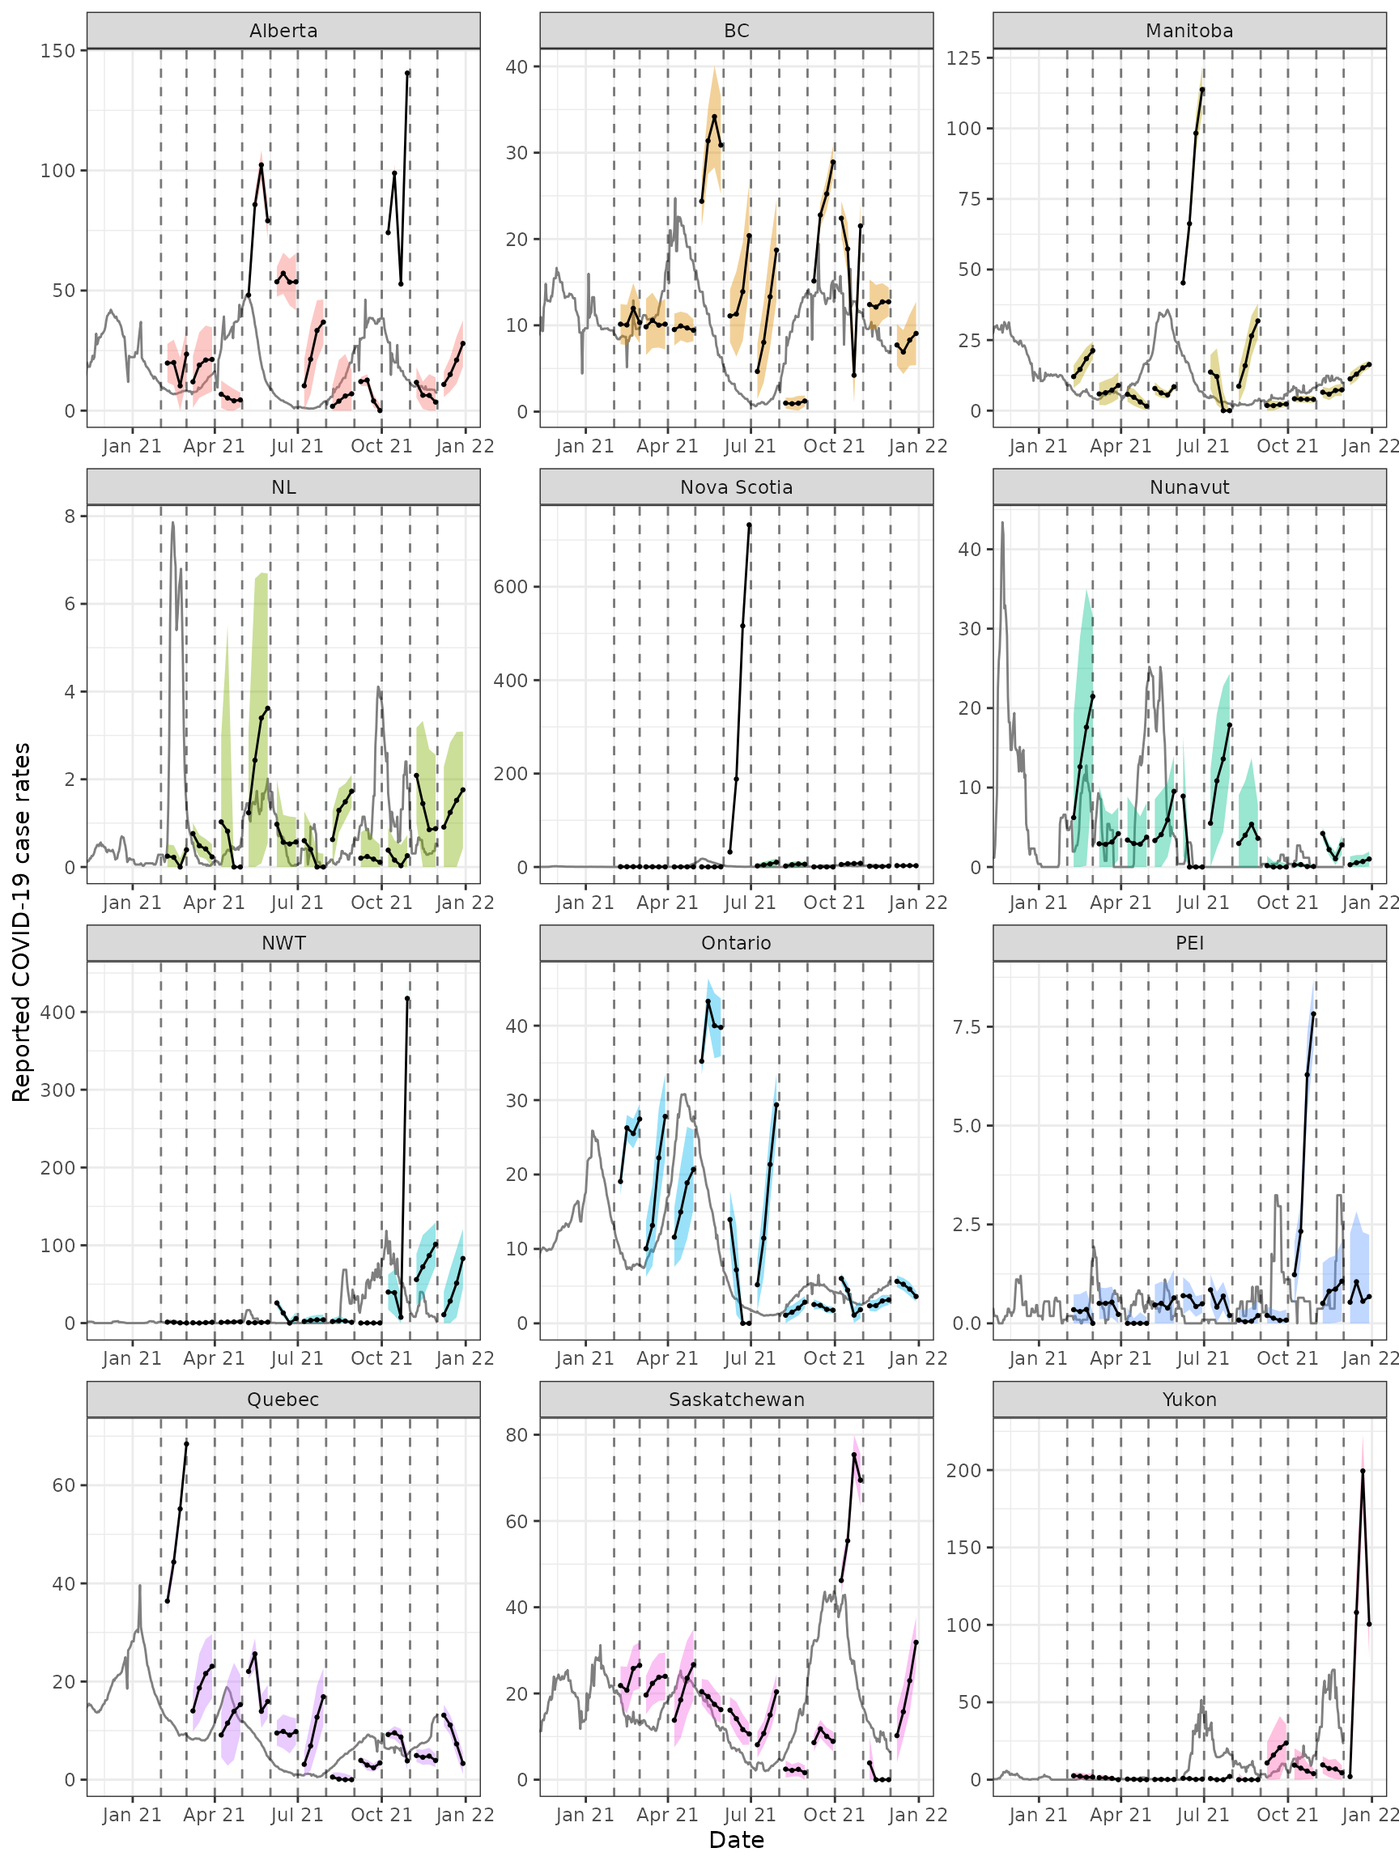
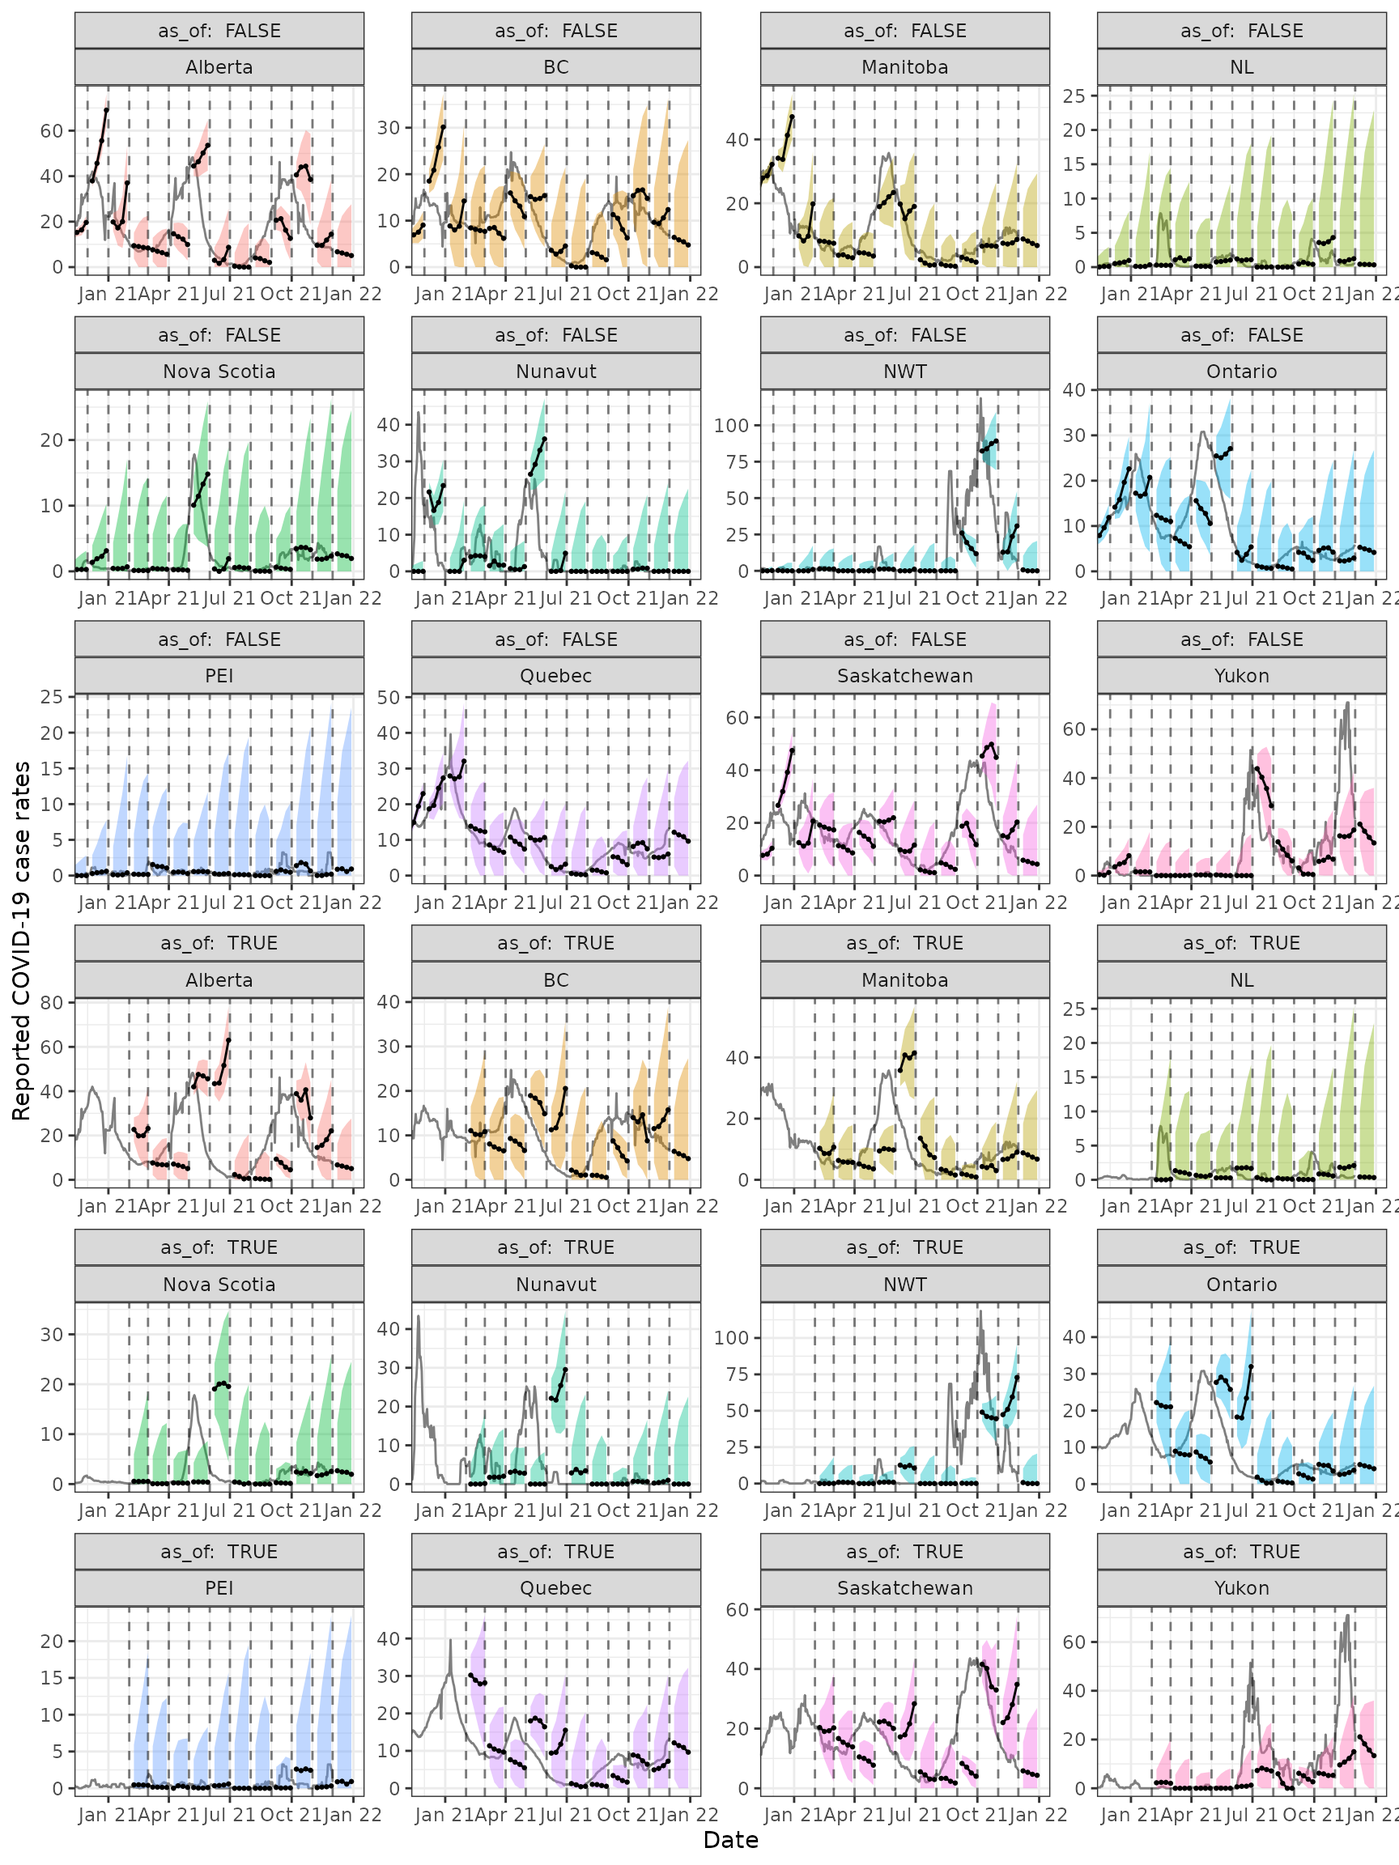
Deploying to gh-pages from @ cmu-delphi/epipredict@a36627eb6a29f781120689944439016f43adea05 🚀

diff --git a/articles/simple-forecasts.html b/articles/simple-forecasts.html
@@ -210,33 +210,45 @@
   <span class="op">)</span> <span class="op"><a href="../reference/pipe.html">%&gt;%</a></span>
   <span class="fu"><a href="https://dplyr.tidyverse.org/reference/group_by.html" class="external-link">group_by</a></span><span class="op">(</span><span class="va">version</span>, <span class="va">geo_value</span><span class="op">)</span> <span class="op"><a href="../reference/pipe.html">%&gt;%</a></span> 
   <span class="fu"><a href="https://dplyr.tidyverse.org/reference/arrange.html" class="external-link">arrange</a></span><span class="op">(</span><span class="va">time_value</span><span class="op">)</span> <span class="op"><a href="../reference/pipe.html">%&gt;%</a></span> 
-  <span class="fu"><a href="https://dplyr.tidyverse.org/reference/mutate.html" class="external-link">mutate</a></span><span class="op">(</span>cr_7dav <span class="op">=</span> <span class="fu">RcppRoll</span><span class="fu">::</span><span class="fu"><a href="https://rdrr.io/pkg/RcppRoll/man/RcppRoll-exports.html" class="external-link">roll_meanr</a></span><span class="op">(</span><span class="va">case_rate</span>, n <span class="op">=</span> <span class="fl">7L</span><span class="op">)</span><span class="op">)</span>
+  <span class="fu"><a href="https://dplyr.tidyverse.org/reference/mutate.html" class="external-link">mutate</a></span><span class="op">(</span>cr_7dav <span class="op">=</span> <span class="fu">RcppRoll</span><span class="fu">::</span><span class="fu"><a href="https://rdrr.io/pkg/RcppRoll/man/RcppRoll-exports.html" class="external-link">roll_meanr</a></span><span class="op">(</span><span class="va">case_rate</span>, n <span class="op">=</span> <span class="fl">7L</span><span class="op">)</span><span class="op">)</span> <span class="co">#%&gt;%</span>
+  <span class="co">#filter(geo_value %in% c('Alberta', "BC"))</span>
 <span class="va">can</span> <span class="op">&lt;-</span> <span class="fu"><a href="https://rdrr.io/pkg/epiprocess/man/as_epi_archive.html" class="external-link">as_epi_archive</a></span><span class="op">(</span><span class="va">can</span><span class="op">)</span>
+<span class="va">can_latest</span> <span class="op">&lt;-</span> <span class="fu"><a href="https://rdrr.io/pkg/epiprocess/man/epix_as_of.html" class="external-link">epix_as_of</a></span><span class="op">(</span><span class="va">can</span>, max_version <span class="op">=</span> <span class="fu"><a href="https://rdrr.io/r/base/Extremes.html" class="external-link">max</a></span><span class="op">(</span><span class="va">can</span><span class="op">$</span><span class="va">DT</span><span class="op">$</span><span class="va">version</span><span class="op">)</span><span class="op">)</span>
 
-<span class="va">can_k_week_ahead</span> <span class="op">&lt;-</span> <span class="kw">function</span><span class="op">(</span><span class="va">ahead</span> <span class="op">=</span> <span class="fl">7</span><span class="op">)</span> <span class="op">{</span>
-  <span class="va">can</span> <span class="op"><a href="../reference/pipe.html">%&gt;%</a></span>
-    <span class="fu"><a href="https://rdrr.io/pkg/epiprocess/man/epix_slide.html" class="external-link">epix_slide</a></span><span class="op">(</span>fc <span class="op">=</span> <span class="fu"><a href="../reference/arx_forecaster.html">arx_forecaster</a></span><span class="op">(</span>
-      y <span class="op">=</span> <span class="va">cr_7dav</span>, key_vars <span class="op">=</span> <span class="va">geo_value</span>, time_value <span class="op">=</span> <span class="va">time_value</span>,
-      args <span class="op">=</span> <span class="fu"><a href="../reference/arx_args_list.html">arx_args_list</a></span><span class="op">(</span>ahead <span class="op">=</span> <span class="va">ahead</span><span class="op">)</span><span class="op">)</span>,
-      n <span class="op">=</span> <span class="fl">120</span>, ref_time_values <span class="op">=</span> <span class="va">fc_time_values</span>, group_by <span class="op">=</span> <span class="va">geo_value</span><span class="op">)</span> <span class="op"><a href="../reference/pipe.html">%&gt;%</a></span>
-    <span class="fu"><a href="https://dplyr.tidyverse.org/reference/mutate.html" class="external-link">mutate</a></span><span class="op">(</span>target_date <span class="op">=</span> <span class="va">time_value</span> <span class="op">+</span> <span class="va">ahead</span><span class="op">)</span>
+<span class="va">can_k_week_ahead</span> <span class="op">&lt;-</span> <span class="kw">function</span><span class="op">(</span><span class="va">x</span>, <span class="va">ahead</span> <span class="op">=</span> <span class="fl">7</span>, <span class="va">as_of</span> <span class="op">=</span> <span class="cn">TRUE</span><span class="op">)</span> <span class="op">{</span>
+  <span class="kw">if</span><span class="op">(</span><span class="va">as_of</span><span class="op">)</span><span class="op">{</span>
+    <span class="va">can</span> <span class="op"><a href="../reference/pipe.html">%&gt;%</a></span>
+      <span class="fu"><a href="https://rdrr.io/pkg/epiprocess/man/epix_slide.html" class="external-link">epix_slide</a></span><span class="op">(</span>fc <span class="op">=</span> <span class="fu"><a href="../reference/arx_forecaster.html">arx_forecaster</a></span><span class="op">(</span>
+        y <span class="op">=</span> <span class="va">cr_7dav</span>, key_vars <span class="op">=</span> <span class="va">geo_value</span>, time_value <span class="op">=</span> <span class="va">time_value</span>,
+        args <span class="op">=</span> <span class="fu"><a href="../reference/arx_args_list.html">arx_args_list</a></span><span class="op">(</span>intercept <span class="op">=</span> <span class="cn">FALSE</span>,ahead <span class="op">=</span> <span class="va">ahead</span><span class="op">)</span><span class="op">)</span>,
+        n <span class="op">=</span> <span class="fl">120</span>, ref_time_values <span class="op">=</span> <span class="va">fc_time_values</span><span class="op">)</span> <span class="op"><a href="../reference/pipe.html">%&gt;%</a></span>
+      <span class="fu"><a href="https://dplyr.tidyverse.org/reference/mutate.html" class="external-link">mutate</a></span><span class="op">(</span>target_date <span class="op">=</span> <span class="va">time_value</span> <span class="op">+</span> <span class="va">ahead</span>, geo_value <span class="op">=</span> <span class="va">fc_key_vars</span>, as_of <span class="op">=</span> <span class="va">as_of</span><span class="op">)</span>
+  <span class="op">}</span>
+  <span class="kw">else</span><span class="op">{</span>
+    <span class="va">can_latest</span> <span class="op"><a href="../reference/pipe.html">%&gt;%</a></span>
+      <span class="fu"><a href="https://rdrr.io/pkg/epiprocess/man/epi_slide.html" class="external-link">epi_slide</a></span><span class="op">(</span>fc <span class="op">=</span> <span class="fu"><a href="../reference/arx_forecaster.html">arx_forecaster</a></span><span class="op">(</span>
+        y <span class="op">=</span> <span class="va">cr_7dav</span>, key_vars <span class="op">=</span> <span class="va">geo_value</span>, time_value <span class="op">=</span> <span class="va">time_value</span>,
+        args <span class="op">=</span> <span class="fu"><a href="../reference/arx_args_list.html">arx_args_list</a></span><span class="op">(</span>intercept <span class="op">=</span> <span class="cn">FALSE</span>,ahead <span class="op">=</span> <span class="va">ahead</span><span class="op">)</span><span class="op">)</span>,
+        n <span class="op">=</span> <span class="fl">120</span>, ref_time_values <span class="op">=</span> <span class="va">fc_time_values</span><span class="op">)</span> <span class="op"><a href="../reference/pipe.html">%&gt;%</a></span>
+      <span class="fu"><a href="https://dplyr.tidyverse.org/reference/mutate.html" class="external-link">mutate</a></span><span class="op">(</span>target_date <span class="op">=</span> <span class="va">time_value</span> <span class="op">+</span> <span class="va">ahead</span>, geo_value <span class="op">=</span> <span class="va">fc_key_vars</span>, as_of <span class="op">=</span> <span class="va">as_of</span><span class="op">)</span>
+  <span class="op">}</span>
 <span class="op">}</span>
 
-<span class="va">can_fc</span> <span class="op">&lt;-</span> <span class="fu">purrr</span><span class="fu">:::</span><span class="fu"><a href="https://purrr.tidyverse.org/reference/map.html" class="external-link">map_dfr</a></span><span class="op">(</span><span class="fu"><a href="https://rdrr.io/r/base/c.html" class="external-link">c</a></span><span class="op">(</span><span class="fl">7</span>,<span class="fl">14</span>,<span class="fl">21</span>,<span class="fl">28</span><span class="op">)</span>, <span class="op">~</span> <span class="fu">can_k_week_ahead</span><span class="op">(</span><span class="va">.x</span><span class="op">)</span><span class="op">)</span></code></pre></div>
+<span class="va">can_fc</span> <span class="op">&lt;-</span> <span class="fu"><a href="https://dplyr.tidyverse.org/reference/bind.html" class="external-link">bind_rows</a></span><span class="op">(</span><span class="fu">purrr</span><span class="fu">:::</span><span class="fu"><a href="https://purrr.tidyverse.org/reference/map.html" class="external-link">map_dfr</a></span><span class="op">(</span><span class="fu"><a href="https://rdrr.io/r/base/c.html" class="external-link">c</a></span><span class="op">(</span><span class="fl">7</span>,<span class="fl">14</span>,<span class="fl">21</span>,<span class="fl">28</span><span class="op">)</span>, <span class="op">~</span> <span class="fu">can_k_week_ahead</span><span class="op">(</span><span class="va">can</span>, ahead <span class="op">=</span> <span class="va">.x</span>, as_of <span class="op">=</span> <span class="cn">TRUE</span><span class="op">)</span><span class="op">)</span>,
+                    <span class="fu">purrr</span><span class="fu">:::</span><span class="fu"><a href="https://purrr.tidyverse.org/reference/map.html" class="external-link">map_dfr</a></span><span class="op">(</span><span class="fu"><a href="https://rdrr.io/r/base/c.html" class="external-link">c</a></span><span class="op">(</span><span class="fl">7</span>,<span class="fl">14</span>,<span class="fl">21</span>,<span class="fl">28</span><span class="op">)</span>, <span class="op">~</span> <span class="fu">can_k_week_ahead</span><span class="op">(</span><span class="va">can_latest</span>, ahead <span class="op">=</span> <span class="va">.x</span>, as_of <span class="op">=</span> <span class="cn">FALSE</span><span class="op">)</span><span class="op">)</span><span class="op">)</span></code></pre></div>
 <p>The figure below shows the results for all of the provinces. Note that we are showing the 7-day averages rather than the reported case numbers due to highly variable provincial reporting mismatches.</p>
 <div class="sourceCode" id="cb8"><pre class="downlit sourceCode r">
-<code class="sourceCode R"><span class="va">can_latest</span> <span class="op">&lt;-</span> <span class="fu"><a href="https://rdrr.io/pkg/epiprocess/man/epix_as_of.html" class="external-link">epix_as_of</a></span><span class="op">(</span><span class="va">can</span>, max_version <span class="op">=</span> <span class="fu"><a href="https://rdrr.io/r/base/Extremes.html" class="external-link">max</a></span><span class="op">(</span><span class="va">x</span><span class="op">$</span><span class="va">DT</span><span class="op">$</span><span class="va">version</span><span class="op">)</span><span class="op">)</span> 
-<span class="fu"><a href="https://ggplot2.tidyverse.org/reference/ggplot.html" class="external-link">ggplot</a></span><span class="op">(</span><span class="va">can_fc</span>, <span class="fu"><a href="https://ggplot2.tidyverse.org/reference/aes.html" class="external-link">aes</a></span><span class="op">(</span>x <span class="op">=</span> <span class="va">target_date</span>, group <span class="op">=</span> <span class="va">time_value</span><span class="op">)</span><span class="op">)</span> <span class="op">+</span>
+<code class="sourceCode R"><span class="fu"><a href="https://ggplot2.tidyverse.org/reference/ggplot.html" class="external-link">ggplot</a></span><span class="op">(</span><span class="va">can_fc</span>, <span class="fu"><a href="https://ggplot2.tidyverse.org/reference/aes.html" class="external-link">aes</a></span><span class="op">(</span>x <span class="op">=</span> <span class="va">target_date</span>, group <span class="op">=</span> <span class="va">time_value</span><span class="op">)</span><span class="op">)</span> <span class="op">+</span>
   <span class="fu"><a href="https://ggplot2.tidyverse.org/reference/coord_cartesian.html" class="external-link">coord_cartesian</a></span><span class="op">(</span>xlim <span class="op">=</span> <span class="fu">lubridate</span><span class="fu">::</span><span class="fu"><a href="https://lubridate.tidyverse.org/reference/ymd.html" class="external-link">ymd</a></span><span class="op">(</span><span class="fu"><a href="https://rdrr.io/r/base/c.html" class="external-link">c</a></span><span class="op">(</span><span class="st">"2020-12-01"</span>, <span class="cn">NA</span><span class="op">)</span><span class="op">)</span><span class="op">)</span> <span class="op">+</span>
   <span class="fu"><a href="https://ggplot2.tidyverse.org/reference/geom_path.html" class="external-link">geom_line</a></span><span class="op">(</span>data <span class="op">=</span> <span class="va">can_latest</span>, <span class="fu"><a href="https://ggplot2.tidyverse.org/reference/aes.html" class="external-link">aes</a></span><span class="op">(</span>x <span class="op">=</span> <span class="va">time_value</span>, y <span class="op">=</span> <span class="va">cr_7dav</span><span class="op">)</span>,
             inherit.aes <span class="op">=</span> <span class="cn">FALSE</span>, color <span class="op">=</span> <span class="st">"gray50"</span><span class="op">)</span> <span class="op">+</span>
   <span class="fu"><a href="https://ggplot2.tidyverse.org/reference/geom_ribbon.html" class="external-link">geom_ribbon</a></span><span class="op">(</span><span class="fu"><a href="https://ggplot2.tidyverse.org/reference/aes.html" class="external-link">aes</a></span><span class="op">(</span>ymin <span class="op">=</span> <span class="va">fc_q0.05</span>, ymax <span class="op">=</span> <span class="va">fc_q0.95</span>, fill <span class="op">=</span> <span class="va">geo_value</span><span class="op">)</span>, alpha <span class="op">=</span> <span class="fl">0.4</span><span class="op">)</span> <span class="op">+</span>
   <span class="fu"><a href="https://ggplot2.tidyverse.org/reference/geom_path.html" class="external-link">geom_line</a></span><span class="op">(</span><span class="fu"><a href="https://ggplot2.tidyverse.org/reference/aes.html" class="external-link">aes</a></span><span class="op">(</span>y <span class="op">=</span> <span class="va">fc_point</span><span class="op">)</span><span class="op">)</span> <span class="op">+</span> <span class="fu"><a href="https://ggplot2.tidyverse.org/reference/geom_point.html" class="external-link">geom_point</a></span><span class="op">(</span><span class="fu"><a href="https://ggplot2.tidyverse.org/reference/aes.html" class="external-link">aes</a></span><span class="op">(</span>y <span class="op">=</span> <span class="va">fc_point</span><span class="op">)</span>, size <span class="op">=</span> <span class="fl">0.5</span><span class="op">)</span> <span class="op">+</span>
   <span class="fu"><a href="https://ggplot2.tidyverse.org/reference/geom_abline.html" class="external-link">geom_vline</a></span><span class="op">(</span><span class="fu"><a href="https://ggplot2.tidyverse.org/reference/aes.html" class="external-link">aes</a></span><span class="op">(</span>xintercept <span class="op">=</span> <span class="va">time_value</span><span class="op">)</span>, linetype <span class="op">=</span> <span class="fl">2</span>, alpha <span class="op">=</span> <span class="fl">0.5</span><span class="op">)</span> <span class="op">+</span>
-  <span class="fu"><a href="https://ggplot2.tidyverse.org/reference/facet_wrap.html" class="external-link">facet_wrap</a></span><span class="op">(</span><span class="op">~</span><span class="va">geo_value</span>, scales <span class="op">=</span> <span class="st">"free"</span>, ncol <span class="op">=</span> <span class="fl">3</span><span class="op">)</span> <span class="op">+</span>
+  <span class="fu"><a href="https://ggplot2.tidyverse.org/reference/facet_wrap.html" class="external-link">facet_wrap</a></span><span class="op">(</span><span class="fu"><a href="https://rdrr.io/r/base/paste.html" class="external-link">paste</a></span><span class="op">(</span><span class="st">'as_of: '</span>, <span class="va">as_of</span><span class="op">)</span><span class="op">~</span><span class="va">geo_value</span>,scales <span class="op">=</span> <span class="st">"free"</span>,ncol <span class="op">=</span> <span class="fl">4</span><span class="op">)</span> <span class="op">+</span>
   <span class="fu"><a href="https://ggplot2.tidyverse.org/reference/scale_date.html" class="external-link">scale_x_date</a></span><span class="op">(</span>minor_breaks <span class="op">=</span> <span class="st">"month"</span>, date_labels <span class="op">=</span> <span class="st">"%b %y"</span><span class="op">)</span> <span class="op">+</span>
   <span class="fu"><a href="https://ggplot2.tidyverse.org/reference/labs.html" class="external-link">labs</a></span><span class="op">(</span>x <span class="op">=</span> <span class="st">"Date"</span>, y <span class="op">=</span> <span class="st">"Reported COVID-19 case rates"</span><span class="op">)</span> <span class="op">+</span>
-  <span class="fu"><a href="https://ggplot2.tidyverse.org/reference/theme.html" class="external-link">theme</a></span><span class="op">(</span>legend.position <span class="op">=</span> <span class="st">"none"</span><span class="op">)</span></code></pre></div>
+  <span class="fu"><a href="https://ggplot2.tidyverse.org/reference/theme.html" class="external-link">theme</a></span><span class="op">(</span>legend.position <span class="op">=</span> <span class="st">"none"</span><span class="op">)</span>  </code></pre></div>
 <p><img src="simple-forecasts_files/figure-html/plot-can-fc-1.png" width="864"></p>
 </div>
 <div class="section level2">
